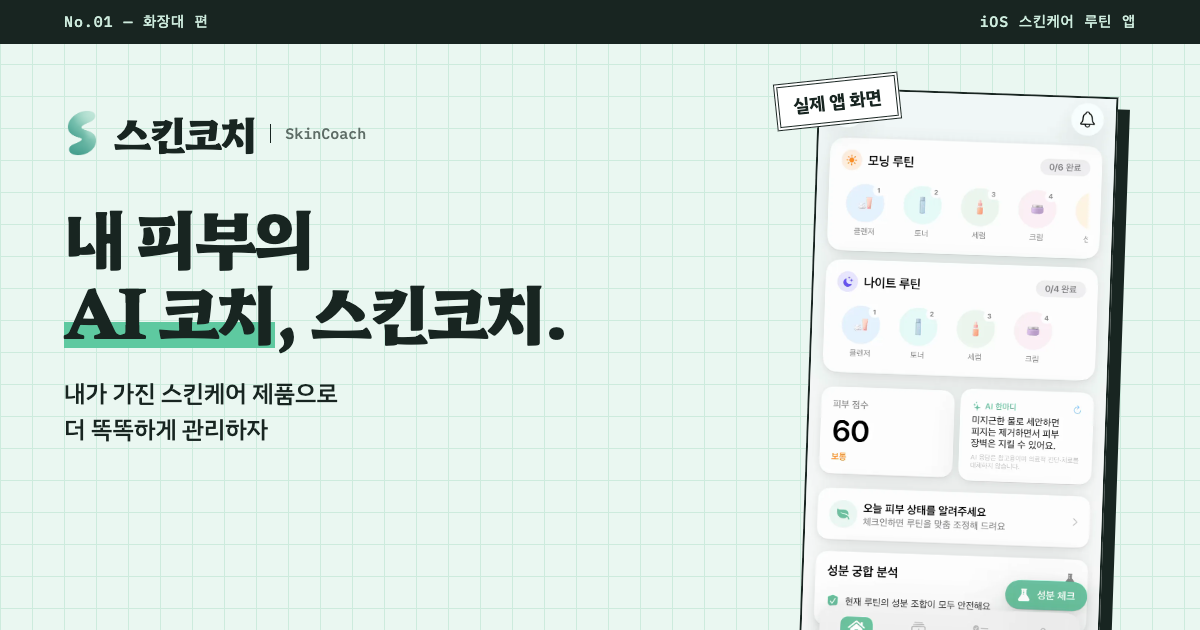
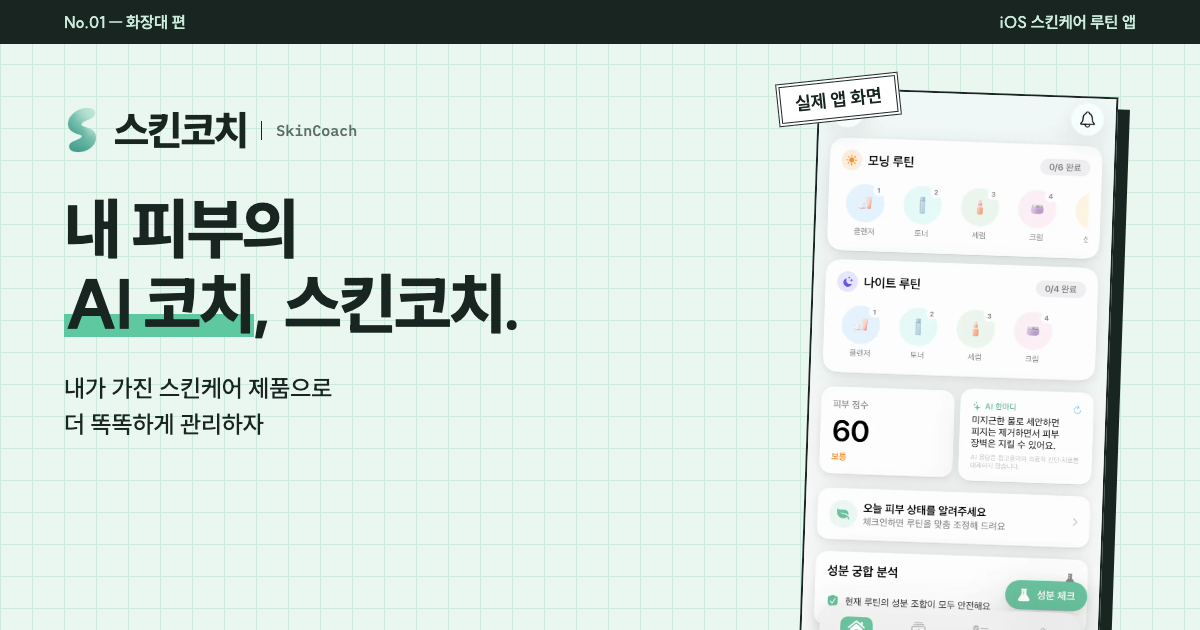
폰트 교체: Hahmlet·Plex Sans KR → SUIT + Instrument Serif
- 한글 전체(제목·본문·라벨)를 SUIT 가변 폰트로 통일
- 큰 숫자(01·02·03, 3,100+, vs)만 Instrument Serif
- 모노 폰트는 영문·숫자 라벨(STEP, FIG., §)에만 사용, 한글 자간 벌림 제거
- OG 이미지·법적 고지 페이지도 같은 폰트로 갱신

diff --git a/assets/css/site.css b/assets/css/site.css
@@ -24,9 +24,10 @@
   --white: #FFFFFF;
   --tray: #F2F2F7;       /* 앱 화면 배경색. 캡처 받침용 */
 
-  --f-display: "Hahmlet", "Noto Serif KR", "AppleMyungjo", serif;
-  --f-body: "IBM Plex Sans KR", "Apple SD Gothic Neo", "Noto Sans KR", sans-serif;
-  --f-mono: "IBM Plex Mono", "IBM Plex Sans KR", ui-monospace, Menlo, monospace;
+  --f-display: "SUIT Variable", "SUIT", "Apple SD Gothic Neo", "Noto Sans KR", sans-serif;
+  --f-body: "SUIT Variable", "SUIT", "Apple SD Gothic Neo", "Noto Sans KR", sans-serif;
+  --f-serif: "Instrument Serif", "Times New Roman", serif;   /* 숫자·영문 포인트 전용 */
+  --f-mono: "IBM Plex Mono", ui-monospace, Menlo, monospace; /* 영문·숫자 라벨 전용 */
 
   --rule: 1.5px solid var(--ink-900);
   --gutter: 20px;
@@ -37,6 +38,15 @@
 
 @media (min-width: 768px) {
   :root { --gutter: 32px; }
+}
+
+/* ---------- fonts ---------- */
+@font-face {
+  font-family: "SUIT Variable";
+  font-weight: 100 900;
+  font-display: swap;
+  src: url("https://cdn.jsdelivr.net/gh/sun-typeface/SUIT@2.0.5/fonts/variable/woff2/SUIT-Variable.woff2") format("woff2-variations"),
+       url("https://cdn.jsdelivr.net/gh/sun-typeface/SUIT@2.0.5/fonts/variable/woff2/SUIT-Variable.woff2") format("woff2");
 }
 
 /* ---------- base ---------- */
@@ -91,21 +101,20 @@ h1, h2, h3 { margin: 0; }
 .h-display {
   font-family: var(--f-display);
   font-weight: 800;
-  letter-spacing: -0.04em;
-  line-height: 1.16;
+  letter-spacing: -0.035em;
+  line-height: 1.22;
   font-size: clamp(30px, 6.6vw, 52px);
 }
 
 .kicker {
   display: flex; flex-wrap: wrap; align-items: center; gap: 10px;
   margin: 0 0 20px;
-  font-family: var(--f-mono);
-  font-size: 12.5px; font-weight: 500;
-  letter-spacing: 0.06em; text-transform: uppercase;
+  font-size: 14px; font-weight: 600;
 }
 .kicker__no {
   background: var(--ink-900); color: var(--mint-50);
-  padding: 3px 7px 2px; font-weight: 600;
+  font-family: var(--f-mono); font-size: 12px; font-weight: 600; letter-spacing: 0.04em;
+  padding: 3px 7px 2px;
 }
 
 .lead { font-size: 17px; font-weight: 500; max-width: 34em; }
@@ -158,7 +167,7 @@ mark {
 /* ---------- masthead + nav ---------- */
 .masthead {
   background: var(--ink-900); color: var(--mint-100);
-  font-family: var(--f-mono); font-size: 11.5px; letter-spacing: 0.06em;
+  font-size: 12.5px; font-weight: 500;
 }
 .masthead__in {
   display: flex; justify-content: center; gap: 16px; padding-block: 7px;
@@ -208,9 +217,9 @@ figure { margin: 0; }
 figcaption {
   display: flex; gap: 10px; align-items: baseline;
   margin-top: 20px;
-  font-family: var(--f-mono); font-size: 12px; line-height: 1.5; color: var(--ink-500);
+  font-size: 13.5px; line-height: 1.5; color: var(--ink-500);
 }
-.fig-no { flex: none; color: var(--ink-900); font-weight: 600; }
+.fig-no { flex: none; font-family: var(--f-mono); font-size: 12px; color: var(--ink-900); font-weight: 600; }
 
 .stamp {
   position: absolute; z-index: 2;
@@ -244,7 +253,7 @@ figcaption {
 .hero__grid { display: grid; gap: 56px; padding-block: 44px 72px; }
 .hero__title {
   font-family: var(--f-display); font-weight: 800;
-  font-size: clamp(38px, 10vw, 72px); line-height: 1.12; letter-spacing: -0.045em;
+  font-size: clamp(38px, 10vw, 70px); line-height: 1.2; letter-spacing: -0.04em;
   margin-bottom: 26px;
 }
 .hero__lead { margin-bottom: 32px; }
@@ -279,7 +288,7 @@ figcaption {
 /* ---------- ticker ---------- */
 .ticker {
   background: var(--ink-900); color: var(--mint-50);
-  overflow: hidden; font-family: var(--f-mono); font-size: 13px;
+  overflow: hidden; font-size: 14px; font-weight: 500;
   border-bottom: var(--rule);
 }
 .ticker__track { display: flex; width: max-content; animation: tick 48s linear infinite; }
@@ -299,7 +308,7 @@ figcaption {
 .chat__msg--r { justify-self: end; }
 .chat__time {
   display: block; margin-bottom: 8px;
-  font-family: var(--f-mono); font-size: 12px; color: var(--ink-500);
+  font-size: 13px; font-weight: 500; color: var(--ink-500);
 }
 .chat__msg--r .chat__time { text-align: right; }
 .chat__bubble {
@@ -322,7 +331,7 @@ figcaption {
   font-family: var(--f-display); font-weight: 800; letter-spacing: -0.035em;
   font-size: clamp(26px, 4.2vw, 40px); line-height: 1.25;
 }
-.problem__end .chat__time { margin-bottom: 10px; font-family: var(--f-mono); font-weight: 400; letter-spacing: 0; }
+.problem__end .chat__time { margin-bottom: 10px; font-weight: 500; letter-spacing: 0; }
 
 @media (min-width: 1024px) {
   .problem { padding-block: 104px 120px; }
@@ -344,10 +353,10 @@ figcaption {
 .feat { display: grid; gap: 40px; padding-block: 48px 64px; border-top: var(--rule); }
 .feat:last-child { padding-bottom: 0; }
 .feat__no {
-  display: block; margin-bottom: 18px;
-  font-family: var(--f-display); font-weight: 900;
-  font-size: clamp(76px, 14vw, 132px); line-height: 0.82; letter-spacing: -0.05em;
-  color: transparent; -webkit-text-stroke: 2px var(--ink-900);
+  display: block; margin-bottom: 14px;
+  font-family: var(--f-serif); font-weight: 400;
+  font-size: clamp(96px, 17vw, 168px); line-height: 0.8; letter-spacing: -0.03em;
+  color: var(--ink-900);
 }
 .feat__title {
   font-family: var(--f-display); font-weight: 800;
@@ -362,7 +371,7 @@ figcaption {
   font-size: 15px;
 }
 .spec div { display: grid; grid-template-columns: 64px 1fr; gap: 12px; padding: 11px 0; border-bottom: 1px solid var(--ink-900); }
-.spec dt { font-family: var(--f-mono); font-size: 12px; color: var(--ink-500); padding-top: 2px; }
+.spec dt { font-size: 13px; font-weight: 500; color: var(--ink-500); padding-top: 1px; }
 .spec dd { margin: 0; font-weight: 600; }
 .note { margin-top: 12px; font-size: 13px; color: var(--ink-500); }
 
@@ -375,8 +384,8 @@ figcaption {
 .result { margin-top: 32px; max-width: 420px; }
 .result__label {
   display: inline-block; margin: 0 0 10px;
-  font-family: var(--f-mono); font-size: 12px; font-weight: 600;
-  background: var(--ink-900); color: var(--white); padding: 4px 8px 3px;
+  font-size: 13px; font-weight: 700;
+  background: var(--ink-900); color: var(--white); padding: 4px 9px 3px;
 }
 .result .plate { box-shadow: 6px 6px 0 var(--mint-500); }
 
@@ -390,7 +399,7 @@ figcaption {
 .versus__item--good .stamp { --rot: -5deg; transform: rotate(-5deg); }
 .versus__vs {
   display: none;
-  font-family: var(--f-display); font-weight: 900; font-size: 30px; letter-spacing: -0.04em;
+  font-family: var(--f-serif); font-style: italic; font-weight: 400; font-size: 48px;
 }
 .outcome { list-style: none; margin: 14px 0 0; padding: 0; font-size: 14px; font-weight: 600; }
 .outcome li { display: flex; gap: 8px; padding: 6px 0; border-bottom: 1px dashed var(--ink-300); }
@@ -426,14 +435,14 @@ figcaption {
 }
 .step__title { font-size: 18px; font-weight: 700; line-height: 1.4; margin: 12px 0 18px; min-height: 2.8em; }
 .step .plate { margin-top: auto; }
-.steps-hint { font-family: var(--f-mono); font-size: 12px; color: var(--ink-500); margin: 8px 0 0; }
+.steps-hint { font-size: 13px; color: var(--ink-500); margin: 8px 0 0; }
 
 @media (min-width: 640px) { .step { flex-basis: 44%; } }
 
 @media (min-width: 1024px) {
   .ruler {
     display: grid; grid-template-columns: 1fr 2fr 1fr;
-    font-family: var(--f-mono); font-size: 12px;
+    font-size: 13px;
   }
   .ruler > div {
     position: relative; padding: 18px 18px 28px;
@@ -442,7 +451,7 @@ figcaption {
     background-size: 100% 8px; background-repeat: no-repeat;
   }
   .ruler > div:last-child { border-right: var(--rule); }
-  .ruler b { display: block; font-weight: 600; font-size: 13px; color: var(--ink-900); }
+  .ruler b { display: block; font-family: var(--f-mono); font-weight: 600; font-size: 13px; color: var(--ink-900); }
   .ruler span { color: var(--ink-500); }
 
   .steps {
@@ -484,15 +493,15 @@ figcaption {
   background-size: 20px 20px;
 }
 .bignum {
-  font-family: var(--f-display); font-weight: 900; letter-spacing: -0.05em; line-height: 1;
-  font-size: clamp(64px, 16vw, 92px);
+  font-family: var(--f-serif); font-weight: 400; letter-spacing: -0.02em; line-height: 1;
+  font-size: clamp(84px, 22vw, 112px);
 }
 .bignum-cap { font-family: var(--f-mono); font-size: 12px; letter-spacing: 0.08em; }
 
 @media (min-width: 640px) { .index-grid { grid-template-columns: repeat(2, 1fr); } }
 @media (min-width: 1024px) {
   .index-grid { grid-template-columns: repeat(3, 1fr); }
-  .bignum { font-size: 76px; }
+  .bignum { font-size: 100px; }
 }
 
 /* ---------- 06 combos ---------- */
@@ -578,7 +587,7 @@ figcaption {
   border-top: var(--rule); padding-top: 24px;
 }
 .coupon__side img { width: 56px; }
-.coupon__side p { margin: 0; font-family: var(--f-mono); font-size: 12px; line-height: 1.7; letter-spacing: 0.04em; }
+.coupon__side p { margin: 0; font-size: 13.5px; font-weight: 500; line-height: 1.7; }
 
 @media (min-width: 1024px) {
   .final { padding-block: 112px 128px; }
@@ -596,7 +605,7 @@ figcaption {
 .foot__slogan { margin: 10px 0 0; color: var(--ink-500); }
 .foot__info { margin: 0; }
 .foot__info div { display: grid; grid-template-columns: 48px 1fr; gap: 8px; padding: 4px 0; }
-.foot__info dt { font-family: var(--f-mono); font-size: 12px; color: var(--ink-500); padding-top: 1px; }
+.foot__info dt { font-size: 13px; color: var(--ink-500); }
 .foot__info dd { margin: 0; }
 .foot__links { list-style: none; margin: 0; padding: 0; display: grid; gap: 6px; }
 .foot__links a { font-weight: 600; text-decoration: underline; text-underline-offset: 3px; text-decoration-thickness: 1px; }
@@ -611,7 +620,7 @@ figcaption {
 .legal-hero { background: var(--mint-50); border-bottom: var(--rule); padding-block: 48px 40px; }
 .legal-hero .wrap { max-width: 760px; }
 .legal-hero h1 { font-family: var(--f-display); font-weight: 800; font-size: clamp(32px, 6vw, 48px); letter-spacing: -0.04em; line-height: 1.2; }
-.legal-hero .meta { margin: 12px 0 0; font-family: var(--f-mono); font-size: 12.5px; color: var(--ink-500); }
+.legal-hero .meta { margin: 12px 0 0; font-size: 13.5px; color: var(--ink-500); }
 .legal { max-width: 760px; padding-block: 48px 88px; font-size: 15.5px; }
 .legal section { margin-bottom: 40px; }
 .legal h2 { font-size: 19px; font-weight: 700; padding-bottom: 10px; margin-bottom: 16px; border-bottom: var(--rule); }

diff --git a/tools/og.html b/tools/og.html
@@ -3,34 +3,36 @@
 <html lang="ko">
 <head>
 <meta charset="utf-8">
-<link rel="stylesheet" href="https://fonts.googleapis.com/css2?family=Hahmlet:wght@700..900&family=IBM+Plex+Mono:wght@500;600&family=IBM+Plex+Sans+KR:wght@500;700&display=block">
+<link rel="stylesheet" href="https://fonts.googleapis.com/css2?family=IBM+Plex+Mono:wght@500;600&display=block">
 <style>
+  @font-face { font-family: "SUIT Variable"; font-weight: 100 900; font-display: block;
+    src: url("https://cdn.jsdelivr.net/gh/sun-typeface/SUIT@2.0.5/fonts/variable/woff2/SUIT-Variable.woff2") format("woff2-variations"); }
   :root { --mint-50:#EAF7F1; --mint-100:#CDEBDD; --mint-500:#5EC9A0; --ink:#182521; --ink-500:#5E6D67; }
   * { box-sizing: border-box; margin: 0; }
   html, body { width: 1200px; height: 630px; overflow: hidden; }
   body {
     position: relative; color: var(--ink);
-    font-family: "IBM Plex Sans KR", sans-serif; word-break: keep-all;
+    font-family: "SUIT Variable", sans-serif; word-break: keep-all;
     background-color: var(--mint-50);
     background-image: linear-gradient(var(--mint-100) 1px, transparent 1px), linear-gradient(90deg, var(--mint-100) 1px, transparent 1px);
     background-size: 32px 32px;
   }
   .bar { position: absolute; inset: 0 0 auto 0; height: 44px; background: var(--ink); color: var(--mint-100);
-         font: 500 15px "IBM Plex Mono", monospace; letter-spacing: .06em;
+         font: 600 16px "SUIT Variable", sans-serif;
          display: flex; justify-content: space-between; align-items: center; padding: 0 64px; }
   .copy { position: absolute; left: 64px; top: 104px; width: 640px; }
   .brand { display: flex; align-items: center; gap: 14px; margin-bottom: 36px; }
   .brand img { height: 52px; }
-  .brand b { font: 800 40px "Hahmlet", serif; letter-spacing: -.04em; }
+  .brand b { font: 800 40px "SUIT Variable", sans-serif; letter-spacing: -.04em; }
   .brand span { font: 500 15px "IBM Plex Mono", monospace; color: var(--ink-500); border-left: 1.5px solid var(--ink); padding-left: 14px; }
-  h1 { font: 800 66px/1.14 "Hahmlet", serif; letter-spacing: -.045em; }
+  h1 { font: 800 66px/1.14 "SUIT Variable", sans-serif; letter-spacing: -.04em; }
   mark { color: inherit; background: linear-gradient(transparent 62%, var(--mint-500) 62%, var(--mint-500) 90%, transparent 90%); }
-  p { margin-top: 28px; font: 500 24px/1.5 "IBM Plex Sans KR", sans-serif; }
+  p { margin-top: 28px; font: 500 24px/1.5 "SUIT Variable", sans-serif; }
   .plate { position: absolute; right: 92px; top: 92px; width: 300px; height: 600px; overflow: hidden;
            background: #fff; border: 2.5px solid var(--ink); box-shadow: 12px 12px 0 var(--ink); transform: rotate(2deg); }
   .plate img { width: 100%; display: block; }
   .stamp { position: absolute; right: 300px; top: 78px; z-index: 2; transform: rotate(-6deg);
-           font: 700 18px "IBM Plex Sans KR", sans-serif; padding: 6px 14px; background: #fff; border: 4px double var(--ink); }
+           font: 700 18px "SUIT Variable", sans-serif; padding: 6px 14px; background: #fff; border: 4px double var(--ink); }
 </style>
 </head>
 <body>

diff --git a/index.html b/index.html
@@ -33,7 +33,8 @@
 
   <link rel="preconnect" href="https://fonts.googleapis.com">
   <link rel="preconnect" href="https://fonts.gstatic.com" crossorigin>
-  <link rel="stylesheet" href="https://fonts.googleapis.com/css2?family=Hahmlet:wght@400..900&family=IBM+Plex+Mono:wght@400;500;600&family=IBM+Plex+Sans+KR:wght@400;500;600;700&display=swap">
+  <link rel="preconnect" href="https://cdn.jsdelivr.net" crossorigin>
+  <link rel="stylesheet" href="https://fonts.googleapis.com/css2?family=Instrument+Serif:ital@0;1&family=IBM+Plex+Mono:wght@500;600&display=swap">
   <link rel="stylesheet" href="assets/css/site.css">
   <link rel="preload" as="image" href="assets/img/shots/hero-home.webp" type="image/webp">
   <script>document.documentElement.classList.add("js");</script>

diff --git a/privacy/index.html b/privacy/index.html
@@ -10,7 +10,8 @@
   <link rel="apple-touch-icon" href="../assets/img/apple-touch-icon.png">
   <link rel="preconnect" href="https://fonts.googleapis.com">
   <link rel="preconnect" href="https://fonts.gstatic.com" crossorigin>
-  <link rel="stylesheet" href="https://fonts.googleapis.com/css2?family=Hahmlet:wght@400..900&family=IBM+Plex+Mono:wght@400;500;600&family=IBM+Plex+Sans+KR:wght@400;500;600;700&display=swap">
+  <link rel="preconnect" href="https://cdn.jsdelivr.net" crossorigin>
+  <link rel="stylesheet" href="https://fonts.googleapis.com/css2?family=Instrument+Serif:ital@0;1&family=IBM+Plex+Mono:wght@500;600&display=swap">
   <link rel="stylesheet" href="../assets/css/site.css">
 </head>
 <body>

diff --git a/terms/index.html b/terms/index.html
@@ -10,7 +10,8 @@
   <link rel="apple-touch-icon" href="../assets/img/apple-touch-icon.png">
   <link rel="preconnect" href="https://fonts.googleapis.com">
   <link rel="preconnect" href="https://fonts.gstatic.com" crossorigin>
-  <link rel="stylesheet" href="https://fonts.googleapis.com/css2?family=Hahmlet:wght@400..900&family=IBM+Plex+Mono:wght@400;500;600&family=IBM+Plex+Sans+KR:wght@400;500;600;700&display=swap">
+  <link rel="preconnect" href="https://cdn.jsdelivr.net" crossorigin>
+  <link rel="stylesheet" href="https://fonts.googleapis.com/css2?family=Instrument+Serif:ital@0;1&family=IBM+Plex+Mono:wght@500;600&display=swap">
   <link rel="stylesheet" href="../assets/css/site.css">
 </head>
 <body>

diff --git a/tools/sync_legal.py b/tools/sync_legal.py
@@ -32,7 +32,8 @@ TEMPLATE = """<!doctype html>
   <link rel="apple-touch-icon" href="../assets/img/apple-touch-icon.png">
   <link rel="preconnect" href="https://fonts.googleapis.com">
   <link rel="preconnect" href="https://fonts.gstatic.com" crossorigin>
-  <link rel="stylesheet" href="https://fonts.googleapis.com/css2?family=Hahmlet:wght@400..900&family=IBM+Plex+Mono:wght@400;500;600&family=IBM+Plex+Sans+KR:wght@400;500;600;700&display=swap">
+  <link rel="preconnect" href="https://cdn.jsdelivr.net" crossorigin>
+  <link rel="stylesheet" href="https://fonts.googleapis.com/css2?family=Instrument+Serif:ital@0;1&family=IBM+Plex+Mono:wght@500;600&display=swap">
   <link rel="stylesheet" href="../assets/css/site.css">
 </head>
 <body>
